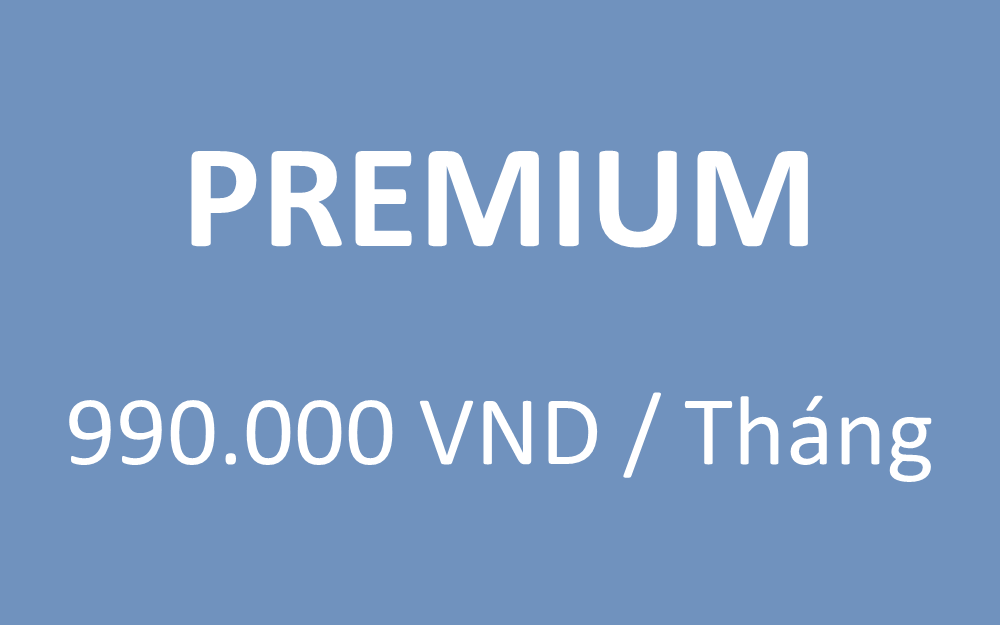
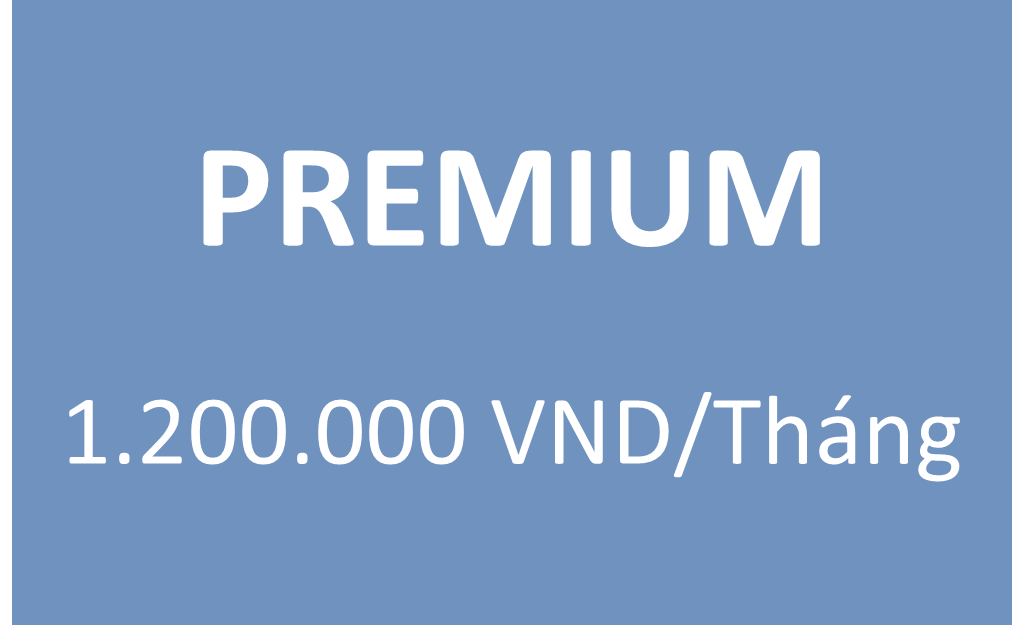
update price

diff --git a/contact.php b/contact.php
@@ -83,12 +83,12 @@ top_menu.style.color = "White";
 
   		<div class="row">
   			<div class="col-md-6 col-md-offset-3">
-  				<h1 class="page-header text-center">Contact Us</h1>
+  				<h1 class="page-header text-center">Liên Hệ</h1>
 				<form class="form-horizontal" role="form" method="post" action="contact.php">
 					<div class="form-group">
-						<label for="name" class="col-sm-2 control-label">Name</label>
+						<label for="name" class="col-sm-2 control-label">Họ Tên</label>
 						<div class="col-sm-10">
-							<input type="text" class="form-control" id="name" name="name" placeholder="First & Last Name" value="<?php echo htmlspecialchars($name); ?>">
+							<input type="text" class="form-control" id="name" name="name" placeholder="Họ Tên" value="<?php echo htmlspecialchars($name); ?>">
 							<?php echo "<p class='text-danger'>$errName</p>";?>
 						</div>
 					</div>
@@ -109,7 +109,7 @@ top_menu.style.color = "White";
 					</div>
 					
 					<div class="form-group">
-						<label for="message" class="col-sm-2 control-label">Message</label>
+						<label for="message" class="col-sm-2 control-label">Nội Dung</label>
 						<div class="col-sm-10">
 							<textarea class="form-control" rows="4" name="message"><?php echo htmlspecialchars($message);?></textarea>
 							<?php echo "<p class='text-danger'>$errMessage</p>";?>
@@ -118,13 +118,13 @@ top_menu.style.color = "White";
 					<div class="form-group">
 						<label for="human" class="col-sm-2 control-label">2 + 3 = ?</label>
 						<div class="col-sm-10">
-							<input type="text" class="form-control" id="human" name="human" placeholder="Your Answer">
+							<input type="text" class="form-control" id="human" name="human" placeholder="Câu Trả Lời">
 							<?php echo "<p class='text-danger'>$errHuman</p>";?>
 						</div>
 					</div>
 					<div class="form-group">
-						<div class="col-sm-10 col-sm-offset-2">
-							<input id="submit" name="submit" type="submit" value="Send to Us" class="btn btn-primary">
+						<div class="col-sm-10 col-sm-offset-4">
+							<input id="submit" name="submit" type="submit" value="Gởi Chúng Tôi" class="btn btn-primary">
 						</div>
 					</div>
 					<div class="form-group">

diff --git a/customer.php b/customer.php
@@ -175,23 +175,23 @@ top_menu.style.color = "White";
 				<form class="form-horizontal" role="form" method="post" action="contact.php">
 					
 					<div class="form-group">
-						<label for="createdate" class="col-sm-4 control-label">User Đã Tạo:</label>
+						<label for="createdate" class="col-sm-4 control-label">Số User Đã Tạo:</label>
 						<div class="col-sm-8">
-							<label name="createdate" class="control-label">3/12</label>
+							<label name="createdate" class="control-label">3 / 12</label>
 						</div>
 					</div>
 					
 					<div class="form-group">
-						<label for="updatedate" class="col-sm-4 control-label">GB Đã Sử Dụng:</label>
+						<label for="updatedate" class="col-sm-4 control-label">Dung Lượng Đã Dùng:</label>
 						<div class="col-sm-8">
-							<label name="updatedate" class="control-label">2/40</label>
+							<label name="updatedate" class="control-label">200M / 40GB</label>
 						</div>
 					</div>
 					
 					<div class="form-group">
 						<label for="updatedate" class="col-sm-4 control-label">Số Ngày Sử Dụng:</label>
 						<div class="col-sm-8">
-							<label name="updatedate" class="control-label">32/365</label>
+							<label name="updatedate" class="control-label">32 / 365</label>
 						</div>
 					</div>
 					

diff --git a/price.php b/price.php
@@ -104,9 +104,9 @@ top_menu.style.color = "White";
                         <p>Dành cho công ty lớn, với: </p>
 						<ul>
 						<li class="li_list" >không giới hạn User</li>
-						<li class="li_list">40 GB Dữ Liệu</li>
+						<li class="li_list">35 GB Dữ Liệu</li>
 						<li class="li_list">Không giới hạn dự án</li>
-						<li class="li_list">990.000 VND/Tháng</li>
+						<li class="li_list">1.200.000 VND/Tháng</li>
                         </ul>
                             <a href="contact.php?message=Tôi muốn mua gói PREMIUM" class="btn btn-primary">Buy Now!</a> 
 							<!--
